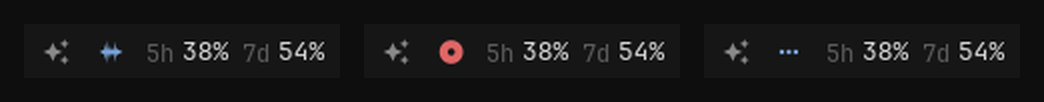
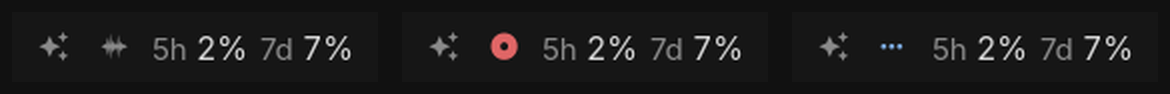
Update from 3ba8bb7

Changed region(s): [[0.0307, 0.3617, 0.3372, 0.6596], [0.3678, 0.3404, 0.6437, 0.6596], [0.6743, 0.3617, 0.9808, 0.6596]]

diff --git a/home/.config/quickshell/bar/Bar.qml b/home/.config/quickshell/bar/Bar.qml
@@ -91,6 +91,40 @@ PanelWindow {
             height: 1
             color: Theme.border
         }
+
+        // the screen's corners: a mouse pushed against them lands in the bar's margin, beside the
+        // outermost part; there a click does what a click on that part does (Fitts: an edge is a
+        // target you cannot miss)
+        EdgeReach {
+            anchors.left: parent.left
+        }
+        EdgeReach {
+            anchors.right: parent.right
+            last: true
+        }
+    }
+
+    component EdgeReach: MouseArea {
+        property bool last: false
+        // the bar's margin and the pill's padding before the part begins
+        width: Theme.barSide + (bar.compact ? 3 : 4)
+        y: Theme.barGap
+        height: Theme.barHeight
+        hoverEnabled: true
+        cursorShape: Qt.PointingHandCursor
+        acceptedButtons: Qt.LeftButton | Qt.MiddleButton | Qt.RightButton
+        onClicked: mouse => bar.clickEdge(last, mouse.button)
+    }
+    // a click on the outermost part, as its own MouseArea does it (Seg.qml)
+    function clickEdge(last, button) {
+        const list = reachable();
+        const s = last ? list[list.length - 1] : list[0];
+        if (!s)
+            return;
+        hideTip(s);
+        if (!s.popupComponent)
+            closePopup();
+        s.clicked(button);
     }
 
     Item {

diff --git a/home/.config/quickshell/bar/WindowPill.qml b/home/.config/quickshell/bar/WindowPill.qml
@@ -2,7 +2,8 @@ import QtQuick
 import Quickshell.Hyprland
 import qs.services
 
-// The focused window: the app's glyph and the window title (compact: the app's name), from Hyprland.
+// The focused window: the app's glyph and the window title, from Hyprland (the compact bar too: the left
+// half is otherwise empty there; it gives way to the centre all the same).
 // Hidden on an empty workspace.
 Pill {
     id: pill
@@ -45,11 +46,11 @@ Pill {
         }
         Label {
             anchors.verticalCenter: parent.verticalCenter
-            width: Math.min(implicitWidth, pill.compact ? 160 : 340, Math.max(60, pill.titleRoom))
+            width: Math.min(implicitWidth, pill.compact ? 300 : 340, Math.max(60, pill.titleRoom))
             elide: Text.ElideRight
             color: Theme.dim
             font.pixelSize: pill.compact ? Theme.fontCompact : Theme.fontSize
-            text: pill.compact || !pill.shortTitle || pill.shortTitle.toLowerCase() === pill.app.name.toLowerCase()
+            text: !pill.shortTitle || pill.shortTitle.toLowerCase() === pill.app.name.toLowerCase()
                   ? pill.app.name : pill.shortTitle
         }
     }

diff --git a/home/.config/quickshell/bar/IdleSeg.qml b/home/.config/quickshell/bar/IdleSeg.qml
@@ -2,19 +2,22 @@ import QtQuick
 import qs.services
 
 // Keep awake: while on, hypridle neither locks nor turns the screen off (services/KeepAwake.qml).
+// Only in the bar while it is on, like the updates: it is turned on in the settings ("When you are
+// away").
 Seg {
     id: seg
 
+    shown: KeepAwake.on
+
     padL: compact ? 4 : 7
     padR: compact ? 4 : 7
-    tip: KeepAwake.on ? "Kept awake: no lock, the screen stays on<br><font color='" + Theme.dim + "'>Click: back to the usual times</font>"
-                      : "Locks and turns the screen off as set<br><font color='" + Theme.dim + "'>Click: keep awake</font>"
+    tip: "Kept awake: no lock, the screen stays on<br><font color='" + Theme.dim + "'>Click: back to the usual times</font>"
 
     onClicked: KeepAwake.on = !KeepAwake.on
 
     Icon {
         anchors.verticalCenter: parent.verticalCenter
-        text: KeepAwake.on ? "\u{F0176}" : "\u{F0FAA}"
-        color: KeepAwake.on ? Theme.accent : Theme.dim
+        text: "\u{F0176}"
+        color: Theme.accent
     }
 }

diff --git a/home/.config/quickshell/bar/DictateSeg.qml b/home/.config/quickshell/bar/DictateSeg.qml
@@ -23,7 +23,8 @@ Seg {
         anchors.verticalCenter: parent.verticalCenter
         text: seg.mode === "recording" ? "\u{F0EC2}" : seg.mode === "busy" ? "\u{F01D8}" : "\u{F147D}"
         size: 16
-        color: seg.mode === "recording" ? Theme.crit : Theme.accent
-
+        // the accent only while it works, red while it records, otherwise as quiet as its neighbours
+        color: seg.mode === "recording" ? Theme.crit : seg.mode === "busy" ? Theme.accent
+             : seg.hovered ? Theme.text : Theme.dim
     }
 }

diff --git a/home/.config/quickshell/bar/SettingsPopup.qml b/home/.config/quickshell/bar/SettingsPopup.qml
@@ -875,7 +875,7 @@ Item {
                 }
                 SettingRow {
                     title: "Keep awake"
-                    detail: KeepAwake.on ? "On: no lock, the screen stays on (the cup in the bar)"
+                    detail: KeepAwake.on ? "On: no lock, the screen stays on (the cup in the bar turns it off)"
                                          : "For a presentation or a long download, until you turn it off"
                     PSwitch {
                         checked: KeepAwake.on

diff --git a/home/.config/quickshell/services/Theme.qml b/home/.config/quickshell/services/Theme.qml
@@ -84,7 +84,7 @@ Singleton {
     readonly property int fontSmall: 15
     readonly property int fontCaption: 14
     readonly property int fontClock: 19
-    readonly property int fontCompact: 14
+    readonly property int fontCompact: 15
     readonly property int fontTitle: 18     // a title of its own: a settings page, the machine in "About"
     readonly property int fontFigure: 22    // the one big number of a popup (the temperature)
     readonly property real letterSpacing: 0

diff --git a/CHANGELOG.md b/CHANGELOG.md
@@ -4,6 +4,21 @@
 
 Versions follow the [releases](../../releases), which have the full notes.
 
+## v2.30.0 (2026-11-10): a calmer bar
+
+### Changed
+- **The window title in the compact bar too**: it showed only the app's name there, so the left half
+  stayed nearly empty while the right side is full. It still gives way to the centre.
+- **The dictation icon is dim while it waits**, like its neighbours: the accent only while it
+  transcribes, red while it records.
+- **Keep awake shows in the bar only while it is on**, like the updates: turn it on in the settings
+  under "When you are away", a click on the cup turns it off.
+- **15 px in the compact bar** instead of 14 px; it fits, also with music and a long window title.
+
+### Fixed
+- **The screen's corners are targets**: a mouse pushed into the top left or right corner landed in
+  the bar's margin and hit nothing; a click there now opens what the name or the power button opens.
+
 ## v2.29.0 (2026-11-09): the wallpaper palette
 
 ### Added

diff --git a/FEATURES.md b/FEATURES.md
@@ -136,8 +136,8 @@ without a restart. Groups from left to right:
   power draw, health, power profile)
 - **Session**, always at the edge: updates while some wait (click: update in a terminal), the sync
   (the driftless mark in the colour of its state; click: its menu), notifications (click: the list;
-  right: do not disturb; middle: clear all), keep awake, the settings (cog), power (click: the power
-  menu; right: lock)
+  right: do not disturb; middle: clear all), keep awake while it is on (turned on in
+  the settings; click: off), the settings (cog), power (click: the power menu; right: lock)
 
 Hover anything for a tooltip; a click elsewhere or `Esc` closes a popup. Inside a popup `Tab` walks
 its controls (a line in the accent shows where), `Enter` or `Space` clicks, the arrows move a slider
